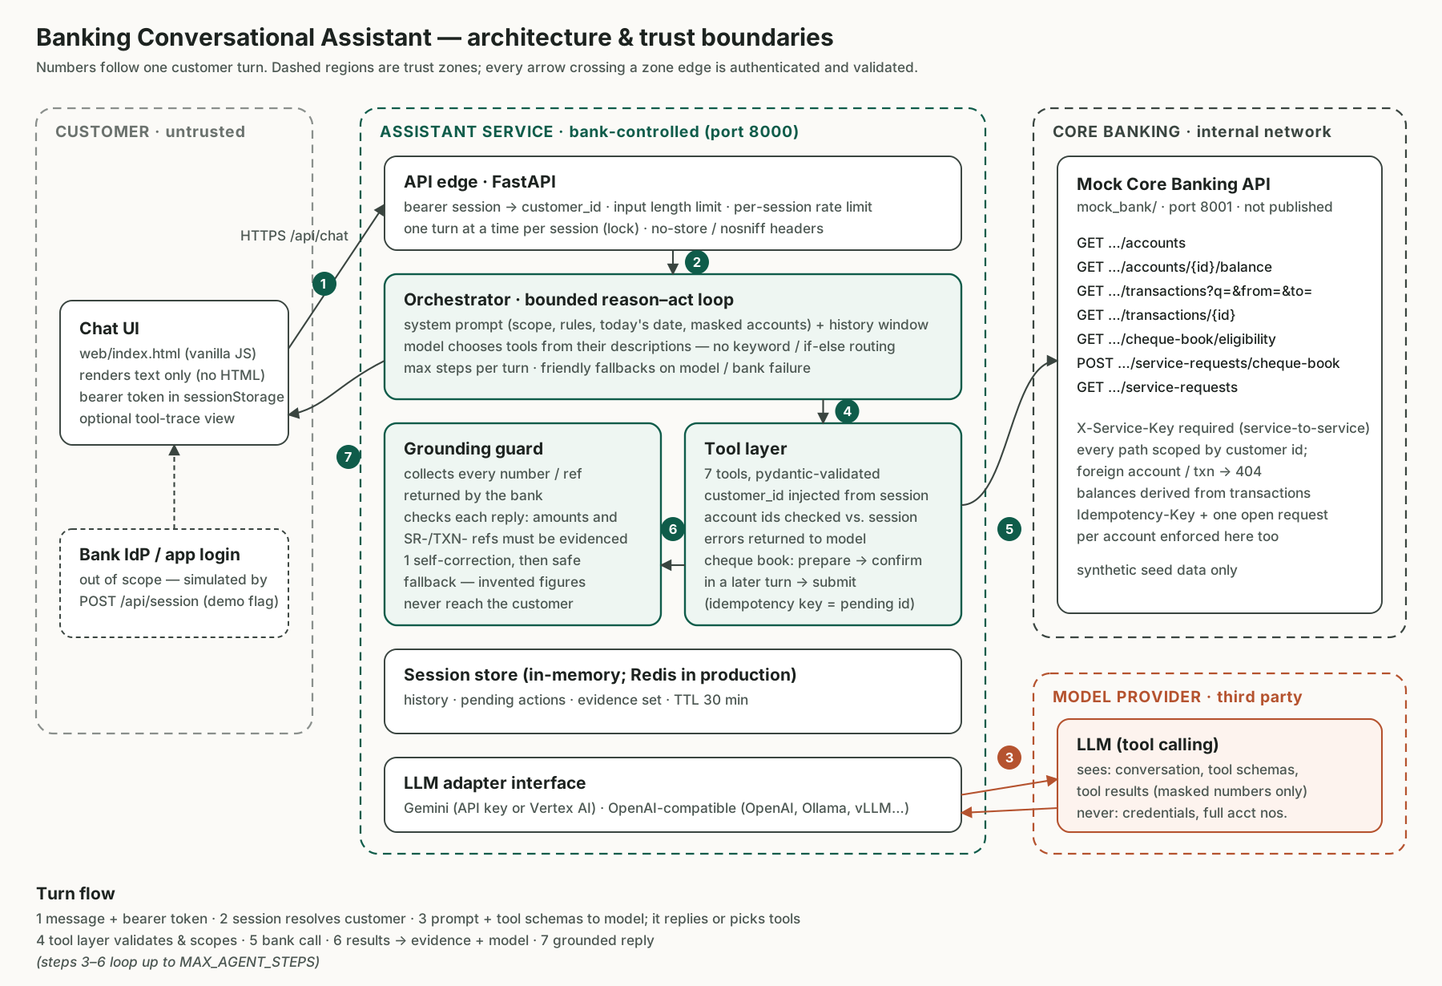
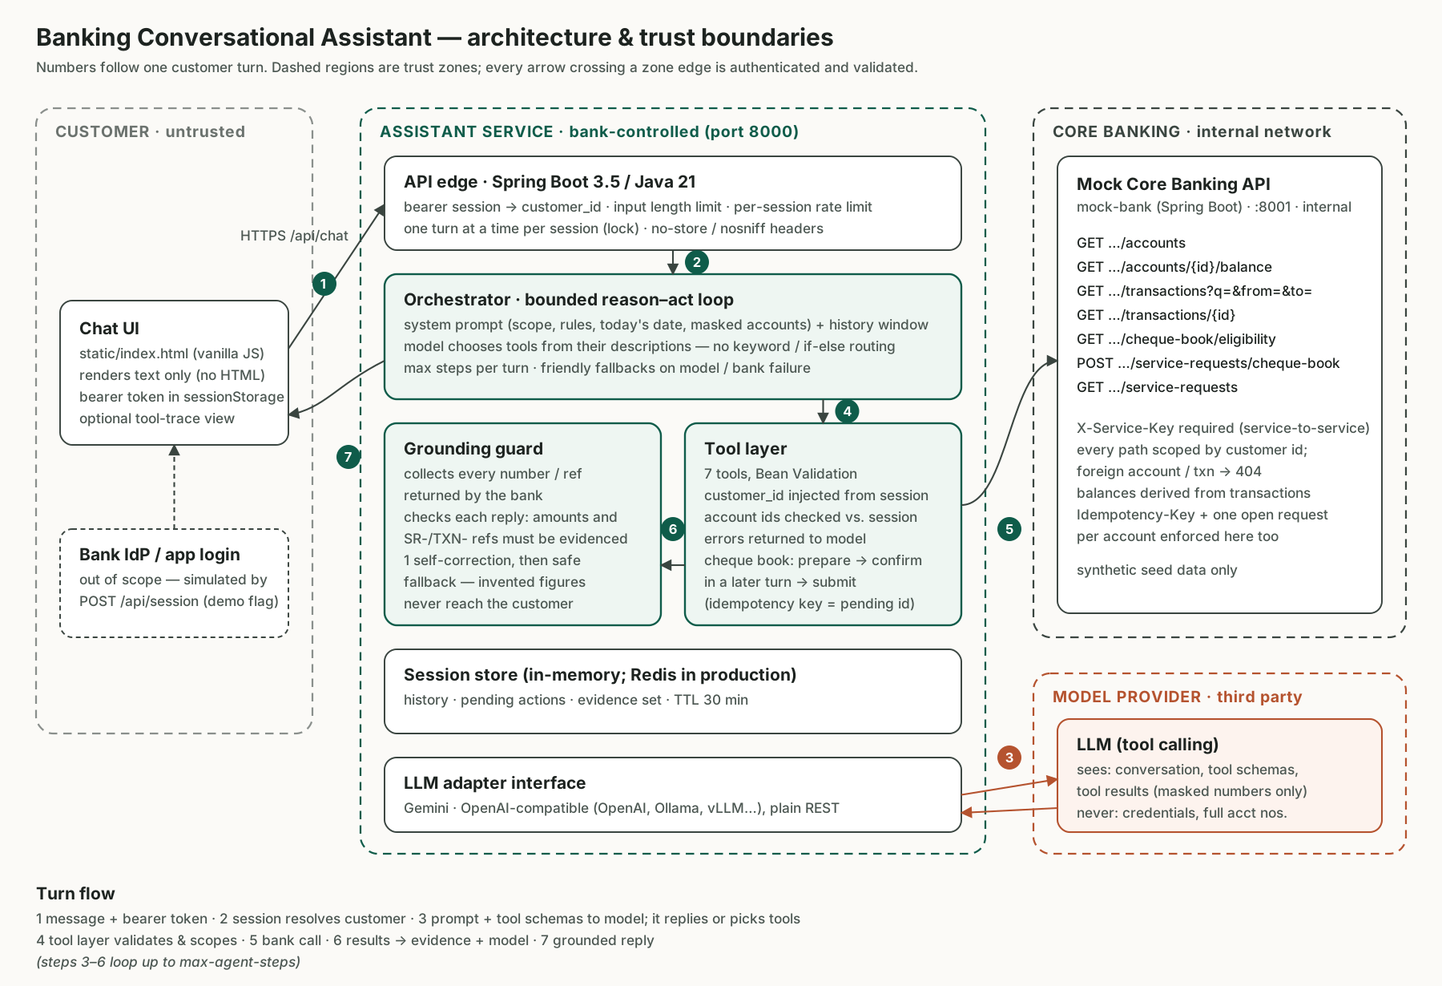
README with setup, design notes; diagram for Java stack
Claude-Session: https://claude.ai/code/session_01KLx97CdsiYwx569KgZ33r6

diff --git a/README.md b/README.md
@@ -1,12 +1,14 @@
 # Banking Conversational Assistant
 
-A conversational assistant that lets an already-authenticated bank customer, in natural language:
+[![CI](https://github.com/realraghavrajsingh/bank-conversational-assistant/actions/workflows/ci.yml/badge.svg)](https://github.com/realraghavrajsingh/bank-conversational-assistant/actions/workflows/ci.yml)
+
+A conversational assistant, built with **Java 21 and Spring Boot 3.5**. An already-authenticated bank customer can use it, in natural language, to:
 
 1. **Check a balance**: "how much have I got in savings?"
 2. **Get a debit explained**: "what's that RZP*TECHNOVA charge?", "why did Uber charge me twice?"
 3. **Order a cheque book**: a service request is raised and confirmed with a reference number.
 
-The model reasons about the request and chooses among banking tools. Every balance, transaction and confirmation shown comes from the (mocked) core-banking service, and a server-side grounding guard enforces that.
+An LLM reasons about each request and chooses among banking tools. Every balance, transaction and confirmation shown comes from the mocked core-banking service. A server-side grounding guard enforces that rule; the prompt alone does not.
 
 ![Architecture](docs/architecture.png)
 
@@ -14,16 +16,19 @@ The model reasons about the request and chooses among banking tools. Every balan
 
 ## Quick start
 
-**Prerequisites:** Python 3.11+ and one LLM option: a Gemini API key (free at https://aistudio.google.com/apikey), Vertex AI credentials, an OpenAI key, or a local Ollama.
+**Prerequisites:** JDK 21, Maven 3.9+, and one LLM option:
+- a Gemini API key (free at https://aistudio.google.com/apikey),
+- an OpenAI key, or
+- a local Ollama.
 
 ```bash
 git clone https://github.com/realraghavrajsingh/bank-conversational-assistant.git
 cd bank-conversational-assistant
-make install                 # creates .venv and installs dependencies
-cp .env.example .env         # then set GEMINI_API_KEY (or switch provider, see below)
+cp .env.example .env          # set GEMINI_API_KEY (or switch provider, see below)
 
-make bank                    # terminal 1: mock core banking on :8001
-make assistant               # terminal 2: assistant API + UI on :8000
+mvn verify                    # build + all tests (~1 min)
+make bank                     # terminal 1: mock core banking on :8001
+make assistant                # terminal 2: assistant API + chat UI on :8000
 ```
 
 Open http://localhost:8000, pick a demo customer and start chatting.
@@ -31,21 +36,19 @@ Open http://localhost:8000, pick a demo customer and start chatting.
 Without `make`:
 
 ```bash
-python3 -m venv .venv && . .venv/bin/activate && pip install -r requirements-dev.txt
-uvicorn mock_bank.app:app --port 8001
-uvicorn assistant.main:app --port 8000
+java -jar mock-bank/target/mock-bank-exec.jar
+java -jar assistant/target/assistant.jar
 ```
 
-**With Docker:** `cp .env.example .env`, set your key, then `docker compose up --build`. Only the assistant is published (port 8000); the mock bank sits on the internal Compose network.
+**With Docker:** run `cp .env.example .env`, set your key, then `docker compose up --build`. Only the assistant is published (port 8000); the mock bank sits on the internal Compose network.
 
 ### Choosing a model
 
 | Provider | `.env` |
 |---|---|
-| Gemini API (default) | `LLM_PROVIDER=gemini`, `GEMINI_API_KEY=…`, `GEMINI_MODEL=gemini-3.8-flash` |
-| Vertex AI | `LLM_PROVIDER=gemini`, `VERTEX_PROJECT=…`, `VERTEX_LOCATION=global` (uses ADC) |
+| Gemini (default) | `LLM_PROVIDER=gemini`, `GEMINI_API_KEY=…`, `GEMINI_MODEL=gemini-3.8-flash` |
 | OpenAI | `LLM_PROVIDER=openai`, `OPENAI_API_KEY=…`, `OPENAI_MODEL=gpt-5-mini` |
-| Ollama / vLLM / any OpenAI-compatible | `LLM_PROVIDER=openai`, `OPENAI_BASE_URL=http://localhost:11434/v1`, `OPENAI_MODEL=qwen3:8b` |
+| Ollama / vLLM / any OpenAI-compatible endpoint | `LLM_PROVIDER=openai`, `OPENAI_BASE_URL=http://localhost:11434/v1`, `OPENAI_MODEL=qwen3:8b` |
 
 The model must support tool (function) calling. If no model is configured, the service still starts: `/api/health` reports why, and chat returns a clear 503.
 
@@ -53,8 +56,8 @@ The model must support tool (function) calling. If no model is configured, the s
 
 | Customer | What to try |
 |---|---|
-| **Aarav Mehta** (CUST-1001): Savings XXXX4521 + Current XXXX7788 | "what's my balance" (two accounts), "and the amazon one yesterday?", "what is RZP*TECHNOVA", "why did uber charge me twice", "what's the ₹500 deduction", "send me a cheque book" → "yes" |
-| **Priya Nair** (CUST-1002): Savings XXXX3192 | "send me a cheque book" → already has SR-700245 in Dispatched status |
+| **Aarav Mehta** (CUST-1001): Savings XXXX4521, Current XXXX7788 | "what's my balance" (two accounts) · "and the amazon one yesterday?" · "what is RZP*TECHNOVA" · "why did uber charge me twice" · "what's the ₹500 deduction" · "send me a cheque book" → "yes" |
+| **Priya Nair** (CUST-1002): Savings XXXX3192 | "send me a cheque book" → already has SR-700245, Dispatched |
 | **Rohan Das** (CUST-1003): Basic Savings XXXX8812 | "send me a cheque book" → not eligible (BSBDA account) |
 
 Tick **details** in the header to see which tools each reply used.
@@ -64,44 +67,62 @@ Tick **details** in the header to see which tools each reply used.
 ## Tests and evals
 
 ```bash
-make test                                   # 29 tests, offline, < 1s
-python scripts/eval_scenarios.py            # real-model scenarios against a running assistant
+mvn verify      # all tests, offline, no API key needed
+make eval       # real-model scenario evals against a running assistant
 ```
 
-- **Unit/integration tests** drive the real orchestrator, tools, guards and an in-process mock bank. Only the model is replaced by a scripted stand-in (`assistant/llm/scripted.py`), so tests are deterministic. They cover balance and follow-up flows, blocked hallucinated figures, cheque book confirmation enforcement, idempotent retries, ineligible accounts and existing requests, cross-customer access attempts, invalid tool arguments, model outage and runaway tool loops.
-- **Scenario evals** check the actual model's reasoning: varied phrasings, follow-ups, cryptic statement text, look-alike charges, the two-step cheque book flow, out-of-scope requests and a prompt-injection attempt against another customer's account. Each turn asserts which tools were called, which were *not*, and what the reply must or must not contain.
+- **Unit and integration tests** use the real orchestrator, tools and guards, with the real mock bank started in-process over HTTP. Only the model is replaced by a scripted stand-in (`ScriptedLlmClient`), so the tests are deterministic. They cover:
+  - the balance flow, and a debit follow-up after a balance check
+  - a hallucinated figure being blocked and then corrected
+  - cheque book confirmation enforced across turns, and idempotent retries
+  - ineligible accounts and existing open requests
+  - attempts to reach another customer's account or transaction
+  - invalid tool arguments being returned to the model
+  - model outage, bank outage and runaway tool loops
+  - HTTP auth, input limits and rate limiting
+  - wire-format translation for Gemini (including thought-signature round-trip) and OpenAI
+- **Scenario evals** (`ScenarioEval`) check the actual model's reasoning:
+  - varied phrasings and follow-ups
+  - cryptic statement text and look-alike charges
+  - the two-step cheque book flow
+  - out-of-scope requests
+  - a prompt-injection attempt against another customer's account
+
+  Each turn asserts which tools were called, which were *not*, and what the reply must or must not contain.
+
+CI (GitHub Actions) runs `mvn verify` on every push.
 
 ---
 
 ## Repository layout
 
 ```
-assistant/            conversational backend (FastAPI, port 8000)
-  main.py             HTTP API: session, chat, health; serves the UI
-  agent.py            orchestrator: bounded reason–act loop, fallbacks
-  tools.py            banking tools: schemas, validation, scoping, 2-phase cheque book
-  grounding.py        deterministic check that reply figures came from the bank
-  prompts.py          system prompt
-  sessions.py         sessions, pending actions, evidence, rate limiting
-  bank_client.py      HTTP client for core banking
-  llm/                provider-neutral interface + Gemini, OpenAI-compatible, scripted adapters
-mock_bank/            mock core-banking API (FastAPI, port 8001) + synthetic seed data
-web/index.html        minimal chat UI (no build step)
-tests/                pytest suite
-scripts/              real-model scenario evals
-docs/                 architecture diagram (SVG + PNG)
+pom.xml                         parent (Spring Boot 3.5, Java 21), modules below
+mock-bank/                      mock core-banking API (port 8001)
+  api/BankController            customer-scoped REST endpoints, X-Service-Key filter
+  store/BankStore               in-memory system of record, seeded from seed.json
+  resources/.../seed.json       synthetic customers, accounts, enriched transactions
+assistant/                      conversational backend + UI (port 8000)
+  web/                          HTTP API: session, chat, health; security headers
+  agent/Agent                   orchestrator: bounded reason-act loop, fallbacks
+  agent/Prompts                 system prompt
+  tools/BankingTools            7 tools: schemas, validation, scoping, 2-phase cheque book
+  guard/Grounding               deterministic check that reply figures came from the bank
+  session/                      sessions, pending actions, evidence, rate limiting
+  bank/BankClient               RestClient for core banking
+  llm/                          provider-neutral interface + Gemini and OpenAI-compatible adapters
+  resources/static/index.html   minimal chat UI (no build step)
+docs/                           architecture diagram (SVG + PNG)
 ```
 
 ### API (assistant)
 
 | Method | Path | Notes |
 |---|---|---|
-| `POST` | `/api/session` | `{customer_id}` → `{token}`. **Simulated** sign-in (see assumptions); disabled with `DEMO_LOGIN_ENABLED=false` |
+| `POST` | `/api/session` | `{customer_id}` → `{token, display_name, expires_in}`. **Simulated** sign-in (see assumptions); disabled with `DEMO_LOGIN_ENABLED=false` |
 | `POST` | `/api/chat` | `Authorization: Bearer <token>`, `{message}` → `{reply, outcome, turn, trace[]}` |
 | `DELETE` | `/api/session` | sign out |
 | `GET` | `/api/health` | liveness + model configuration status |
-
-Interactive docs: http://localhost:8000/docs (assistant), http://localhost:8001/docs (mock bank).
 
 ---
 
@@ -109,72 +130,83 @@ Interactive docs: http://localhost:8000/docs (assistant), http://localhost:8001/
 
 ### Decomposition
 
-The solution is split along trust boundaries, not features:
+The system is split along trust boundaries rather than features:
 
 - **Chat UI** (untrusted). Renders text only and holds an opaque session token.
-- **Assistant service** (bank-controlled). Owns identity binding, orchestration and every safety guarantee. It has four parts:
-  - API edge: auth, limits, per-session serialisation.
-  - Orchestrator: the reason–act loop.
-  - Tool layer: the only path to banking data.
-  - Grounding guard.
-- **Model provider** (third party). Proposes actions and words; it is never trusted for facts or authority.
-- **Core banking** (system of record, mocked). It enforces customer scoping, eligibility and idempotency on its own side as well (defence in depth).
+- **Assistant service** (bank-controlled). Owns identity binding, orchestration and every safety guarantee:
+  - API edge: auth, limits, per-session serialisation
+  - orchestrator: the reason-act loop
+  - tool layer: the only path to banking data
+  - grounding guard
+- **Model provider** (third party). Proposes actions and wording. It is never trusted for facts or authority.
+- **Core banking** (system of record, mocked). Enforces customer scoping, eligibility and idempotency on its own side as well (defence in depth).
 
 ### How a turn works
 
-1. The UI posts the message with the bearer token. The session resolves to exactly one `customer_id`.
+1. The UI posts the message with a bearer token. The session resolves to exactly one `customer_id`.
 2. The orchestrator sends the system prompt, the conversation window and seven tool schemas to the model.
-3. The model either answers or requests tool calls. Each call is validated with pydantic and scoped: the customer id is injected from the session, never taken from the model, and account ids are checked against the session's accounts. The call is then executed against core banking.
+3. The model either answers or requests tool calls. Each call goes through three steps before it reaches core banking:
+   - its arguments are deserialised into a typed record and checked with Bean Validation;
+   - it is scoped: the customer id comes from the session, never from the model, and account ids are checked against the session's own accounts;
+   - it is executed against core banking.
 4. Results go back to the model, and every number and reference in them is recorded as **evidence** for the session.
-5. Steps 2–4 loop up to `MAX_AGENT_STEPS`. The final draft goes through the grounding guard. Any currency amount or `SR-`/`TXN-` reference not present in the evidence triggers one silent self-correction. If it still fails, a safe fallback is returned.
+5. Steps 2–4 loop up to `max-agent-steps` times. The final draft then goes through the grounding guard:
+   - any currency amount or `SR-`/`TXN-` reference not present in the evidence triggers one silent self-correction;
+   - if the next draft still fails, a safe fallback is returned instead.
 
-Routing is done by the model choosing tools from their descriptions. There is no intent classifier or keyword matching, so "what's left in my current account", "was I charged twice by Uber?" and "RZP*TECHNOVA??" all work. Follow-ups work because the full tool exchange stays in the conversation history.
+Routing is done by the model choosing tools from their descriptions. There is no intent classifier and no keyword matching, so "what's left in my current account", "was I charged twice by Uber?" and "RZP*TECHNOVA??" all work. Follow-ups work because the full tool exchange stays in the conversation history.
 
 ### Key decisions and why
 
 | Decision | Rationale |
 |---|---|
-| **Single agent with tools**, not multi-agent or intent-router | Three capabilities with shared context (a debit question after a balance check) fit one reasoning loop. Multiple agents would add hand-off latency and lose context for no gain at this scope. New capabilities are added as tools. |
-| **Server-enforced invariants instead of prompt-only rules** | Prompts are advisory. Identity scoping, write confirmation and grounding live in code. That is what lets the system promise that figures are never invented by the model. |
-| **Deterministic grounding guard** | It is cheap, explainable and catches the failure that matters most in banking: a confidently wrong number. Arithmetic is done in tools (`total_amount`) so legitimate figures always appear verbatim in the evidence. |
-| **Two-phase cheque book order with turn-gap check** | `prepare` returns a summary and a pending id. `submit` is rejected unless the customer has replied since the summary was shown. This stops the model, or text injected via a transaction descriptor, from proposing and executing in one step. The pending id is the idempotency key, so retries never create duplicate orders. |
-| **Provider-neutral LLM interface** | Banks often mandate a specific provider or on-prem model. Gemini (API key or Vertex) and any OpenAI-compatible endpoint (including local Ollama) work by configuration. Gemini's raw content is round-tripped so thought signatures survive multi-step tool use. |
-| **Python + FastAPI, two services** | Fast to build and test, async I/O for concurrent LLM and bank calls. The mock bank is a separate service so the trust boundary and network failure modes are real rather than simulated in-process. |
-| **Scripted-model tests + real-model evals** | Plumbing and guarantees are tested deterministically. Reasoning quality is measured separately, because it is probabilistic and depends on the model. |
+| **A single agent with tools**, not multiple agents or an intent router | Three capabilities that share context (a debit question after a balance check) fit one reasoning loop. Multiple agents would add hand-off latency and lose context for no gain at this scope. New capabilities are added as tools. |
+| **Invariants enforced in code, not only in the prompt** | Prompts are advisory. Identity scoping, write confirmation and grounding live in code. That is what lets the system promise that figures are never invented by the model. |
+| **Deterministic grounding guard** | It is cheap, explainable, and catches the failure that matters most in banking: a confidently wrong number. Arithmetic happens in tools (`total_amount`), so legitimate figures always appear verbatim in the evidence. |
+| **Two-phase cheque book order with a turn-gap check** | `prepare` returns a summary and a pending id. `submit` is rejected unless the customer has replied since the summary was shown. This stops the model, or text injected through a transaction descriptor, from proposing and executing in one step. The pending id is also the idempotency key, so retries never create duplicate orders. |
+| **Own provider-neutral LLM interface over REST** (no SDK, no framework auto-tool-execution) | The orchestrator must run every tool itself to enforce the rules above, which frameworks that auto-execute tools make harder. Banks often mandate a specific provider or an on-prem model: Gemini and any OpenAI-compatible endpoint (including local Ollama) work by configuration. The raw Gemini content is replayed, so thought signatures survive multi-step tool use. |
+| **Two Spring Boot services in one Maven build** | The mock bank is a separate service, so the trust boundary, the service-to-service auth and the network failure modes are real rather than simulated in-process. Tests start it in-process on a random port, so they still run fully offline. |
+| **Scripted-model tests plus real-model evals** | Plumbing and guarantees are tested deterministically in CI. Reasoning quality is measured separately, because it is probabilistic and depends on the model. |
 
 ### Assumptions
 
-- **Authentication happens upstream.** The customer is already signed in to the bank's app. `POST /api/session` stands in for exchanging the app's IdP token (e.g. OIDC) for a conversation session; it is a demo affordance behind a flag.
-- Indian retail bank context: INR, NEFT/UPI/NACH channels, and cheque books of 25 leaves (free) or 50 leaves (₹118 incl. GST), delivered to the registered address in about 7 days.
-- "Explain a debit" means explaining it from the bank's own transaction and enrichment data. Raising disputes, blocking cards and fraud handling are out of scope; the assistant points the customer to the app or helpline.
-- Only customer-initiated delivery to the registered address is supported. Address changes are a separate, higher-assurance journey.
-- The data is entirely synthetic. Dates are generated relative to service start so "yesterday" and "last week" always resolve.
+- **Authentication happens upstream.** The customer is already signed in to the bank's app. `POST /api/session` stands in for exchanging the app's identity-provider token (e.g. OIDC) for a conversation session. It is a demo affordance behind a flag.
+- The context is an Indian retail bank: INR; NEFT, UPI and NACH channels; cheque books of 25 leaves (free) or 50 leaves (₹118 incl. GST), delivered to the registered address in about 7 days.
+- "Explain a debit" means explaining it from the bank's own transaction and enrichment data. Raising disputes, blocking cards and fraud handling are out of scope; the assistant points to the app or the helpline.
+- Delivery is only to the registered address. Changing the address is a separate, higher-assurance journey.
+- All data is synthetic. Dates are generated relative to service start, so "yesterday" and "last week" always resolve.
 
 ### Security considerations
 
-- **Identity:** the model never chooses whose data to read. The customer id comes from the session, account ids are checked against it, and core banking scopes again and returns 404 for foreign resources (no existence leak).
-- **Prompt injection:** tool data is labelled untrusted in the prompt. More importantly, injected text cannot cross the server-side controls: it cannot change identity, skip write confirmation, or get an invented figure past the guard.
-- **Data minimisation to the model provider:** only masked account numbers and masked addresses ever leave core banking. Full account numbers and credentials are never sent to the model.
-- **Service-to-service auth** between the assistant and core banking uses `X-Service-Key`; in production this would be mTLS or workload identity. Core banking is not exposed publicly.
-- **Edge controls:** message length limit, per-session rate limit, session TTL, one in-flight turn per session, `no-store` responses. The UI renders replies as text (no HTML injection).
-- **Logging** records tool names, outcomes and latency, not message contents or balances.
+- **Identity:** the model never chooses whose data to read. The customer id comes from the session, and account ids are checked against it. Core banking scopes again and returns 404 for another customer's resources, so it does not leak whether they exist.
+- **Prompt injection:** tool data is labelled untrusted in the prompt. More importantly, injected text cannot get past the server-side controls. It cannot change identity, skip write confirmation, or slip an invented figure past the guard.
+- **Data minimisation:** only masked account numbers and masked addresses ever leave core banking. The model provider never sees full account numbers or credentials.
+- **Service-to-service auth:** the assistant authenticates to core banking with `X-Service-Key`, compared in constant time. In production this would be mTLS or workload identity. Core banking is not exposed publicly.
+- **Edge controls:**
+  - message length limit
+  - per-session rate limit
+  - session TTL
+  - one in-flight turn per session
+  - `Cache-Control: no-store`, CSP and `nosniff` headers
+  - the UI renders replies as text, so there is no HTML injection
+- **Logging** records tool names, outcomes and latency. It does not record message contents or balances.
 
 ### Failure handling
 
 | Failure | Behaviour |
 |---|---|
-| Model timeout / error | Friendly fallback pointing to the app. The turn is closed cleanly so the next turn works. |
-| Core banking down | The tool returns `bank_unavailable`. The model apologises, and the guard prevents any guessed figure. |
+| Model timeout or error | Friendly fallback pointing to the app. History stays well-formed, so the next turn works. |
+| Core banking down | The tool returns `bank_unavailable`. The model apologises, and the guard blocks any guessed figure (tested). |
 | Model invents a figure or reference | One self-correction, then a safe fallback. Logged as `ungrounded_reply`. |
 | Bad tool arguments | A structured error goes back to the model, which corrects itself (tested). |
-| Runaway tool loop | Capped by `MAX_AGENT_STEPS`. |
-| Duplicate submit / client retry | Idempotent at core banking; one open request per account is enforced. |
+| Runaway tool loop | Capped by `max-agent-steps`. |
+| Duplicate submit or client retry | Idempotent at core banking, which also enforces one open request per account. |
 
-### What I'd do next for production
+### Next steps for production
 
 - Persist sessions and pending actions in Redis, and run the assistant stateless behind a load balancer.
-- Replace the demo login with IdP token exchange, and add step-up authentication for write actions above a risk threshold.
-- Add OpenTelemetry tracing per turn and tool, plus dashboards for containment rate, fallback rate, grounding-guard hits, latency and cost per conversation. These are the metrics that tie back to the 390k-call business case.
-- Hand off to a human agent with the conversation transcript when the assistant can't help or the customer asks.
-- Run the scenario evals in CI against the pinned model version, adding red-team prompts and multilingual or Hinglish phrasing.
-- Stream responses (SSE) for perceived latency, and add PII redaction before model calls if free-text descriptors carry personal data.
+- Replace the demo login with an identity-provider token exchange (Spring Security resource server), and add step-up authentication for write actions.
+- Add OpenTelemetry tracing per turn and per tool, with dashboards for containment rate, fallback rate, grounding-guard hits, latency and cost per conversation. These metrics tie back to the 390k-calls-a-month business case.
+- Hand off to a human agent, with the transcript, when the assistant can't help or the customer asks for one.
+- Run the scenario evals in CI against a pinned model version, and add red-team prompts and Hinglish phrasing.
+- Stream responses (SSE) to improve perceived latency.
